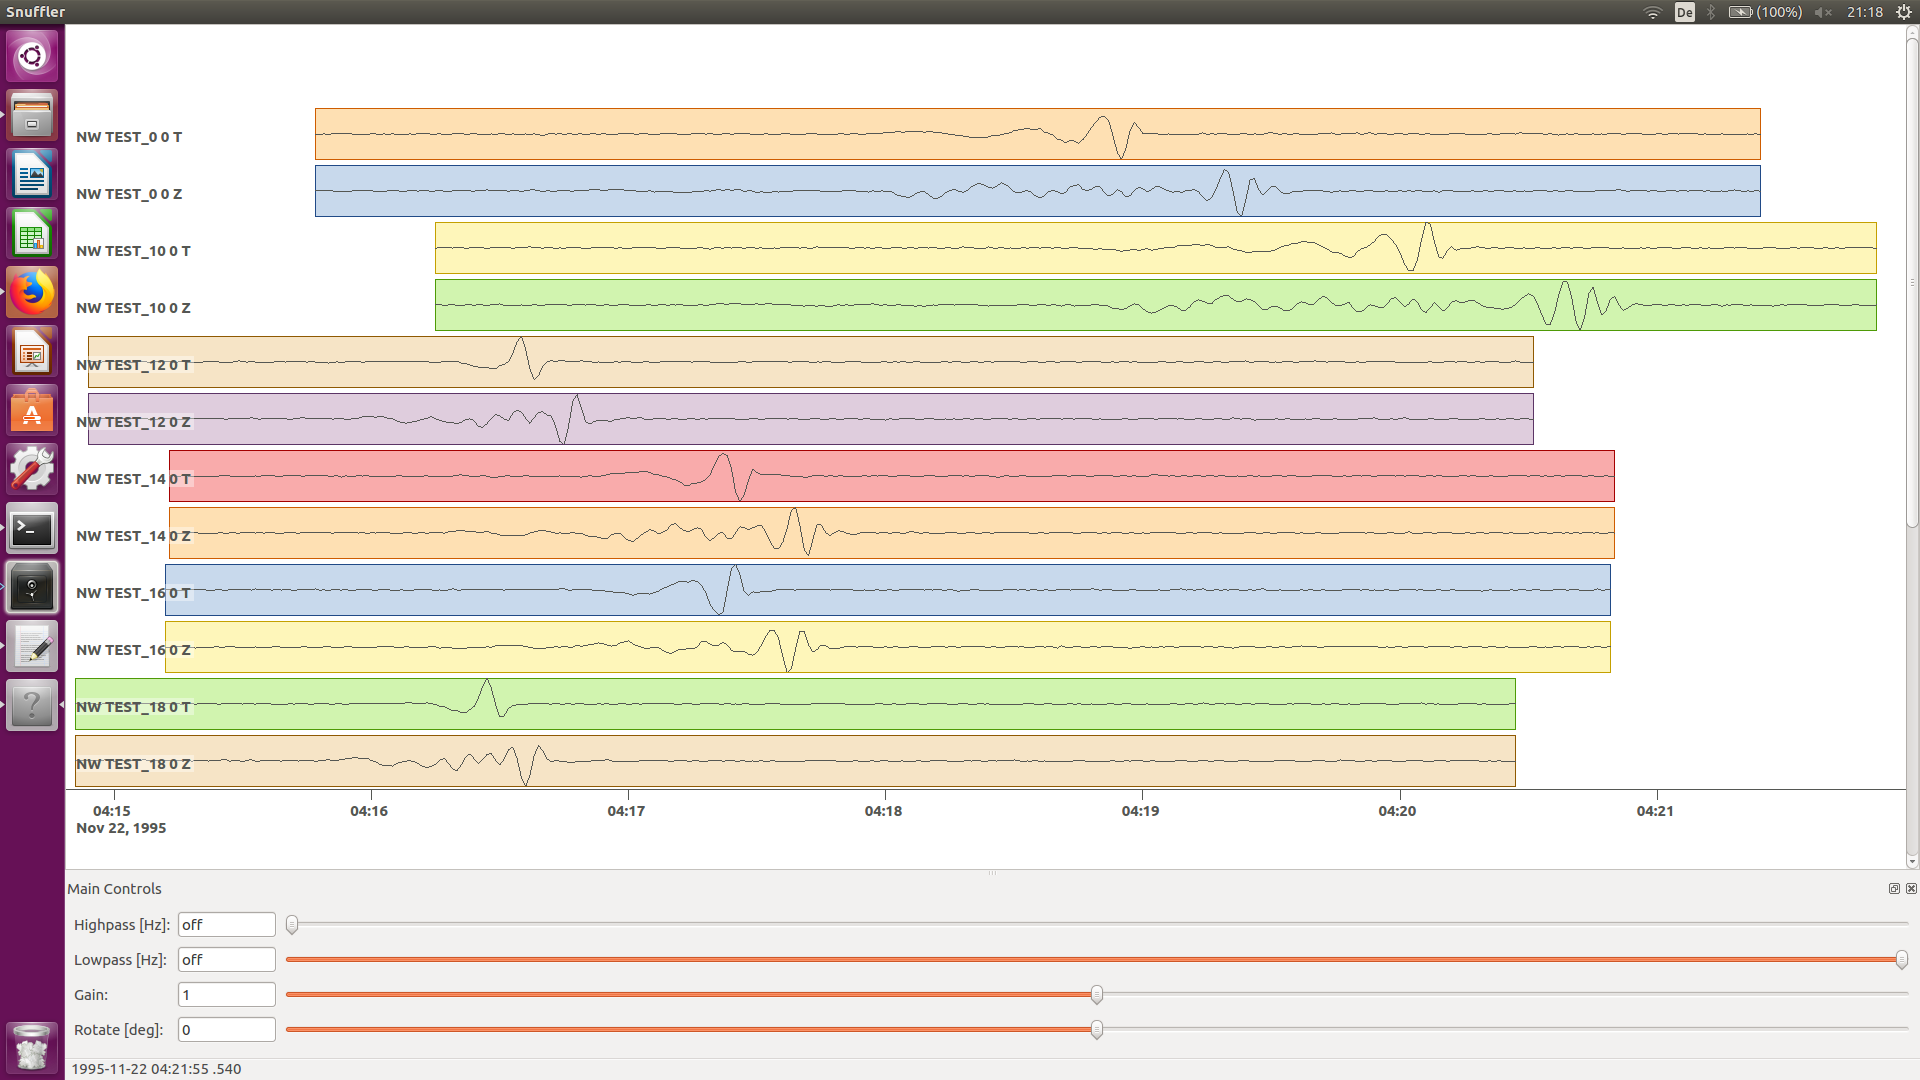
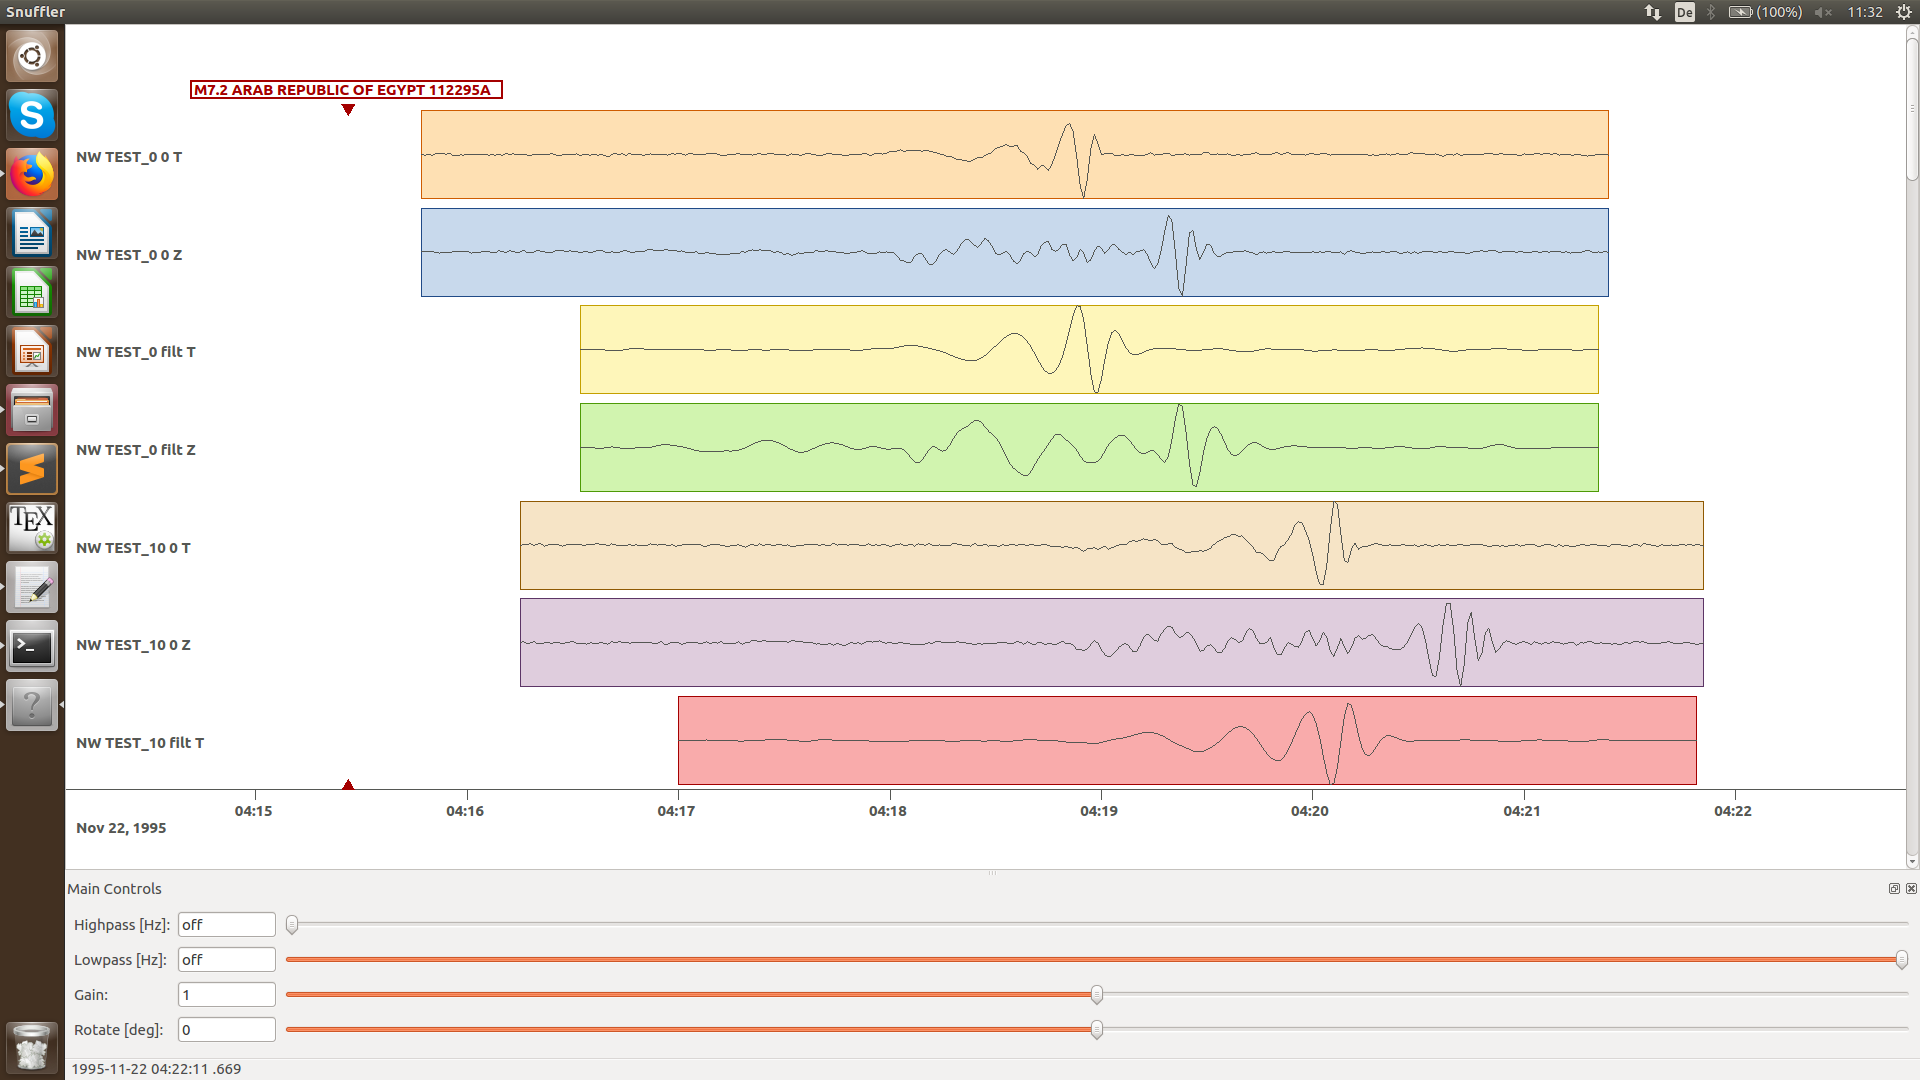
updates to MT tutorial, fixes in config

diff --git a/src/parallel.py b/src/parallel.py
@@ -256,7 +256,7 @@ def memshare(parameternames):
 
     Parameters
     ----------
-    paremeternames : list of str
+    parameternames : list of str
         off names to :class:`theano.tensor.sharedvar.TensorSharedVariable`
     """
     for paramname in parameternames:
@@ -284,16 +284,16 @@ def memshare_sparams(shared_params):
     shared_params : list
         of :class:`theano.tensor.sharedvar.TensorSharedVariable`
 
-    Returns:
-    --------
+    Returns
+    -------
 
     memshared_instances : list
         of :class:`multiprocessing.sharedctypes.RawArray`
         list of sharedctypes (shared memory arrays) that point
         to the memory used by the current process's Theano variable.
 
-    Notes:
-    ------
+    Notes
+    -----
     Modiefied from:
     https://github.com/JonathanRaiman/theano_lstm/blob/master/theano_lstm/shared_memory.py
 
@@ -327,16 +327,16 @@ def borrow_memory(shared_param, memshared_instance):
     Spawn different processes with the shared memory
     of your theano model's variables.
 
-    Parameters:
-    -----------
+    Parameters
+    ----------
     shared_param : :class:`theano.tensor.sharedvar.TensorSharedVariable`
         the Theano shared variable where
         shared memory should be used instead.
     memshared_instance : :class:`multiprocessing.RawArray`
         the memory shared across processes (e.g.from `memshare_sparams`)
 
-    Notes:
-    ------
+    Notes
+    -----
     Modiefied from:
     https://github.com/JonathanRaiman/theano_lstm/blob/master/theano_lstm/shared_memory.py
 
@@ -346,32 +346,35 @@ def borrow_memory(shared_param, memshared_instance):
     a list called "params". We loop through each theano shared variable and
     call `borrow_memory` on it to share memory across processes.
 
-        def spawn_model(path, wrapped_params):
-            # prevent recompilation and arbitrary locks
-            theano.config.reoptimize_unpickled_function = False
-            theano.gof.compilelock.set_lock_status(False)
+    Examples
+    --------
+    def spawn_model(path, wrapped_params):
+        # prevent recompilation and arbitrary locks
+        theano.config.reoptimize_unpickled_function = False
+        theano.gof.compilelock.set_lock_status(False)
 
-            # load your function from its pickled instance (from path)
-            myfunction = MyFunction.load(path)
+        # load your function from its pickled instance (from path)
+        myfunction = MyFunction.load(path)
 
-            # for each parameter in your function
-            # apply the borrow memory strategy to replace
-            # the internal parameter's memory with the
-            # across-process memory:
-            for param, memshared_instance in zip(
-                    myfunction.get_shared(), memshared_instances):
-                borrow_memory(param, memory)
+        # for each parameter in your function
+        # apply the borrow memory strategy to replace
+        # the internal parameter's memory with the
+        # across-process memory:
+        for param, memshared_instance in zip(
+                myfunction.get_shared(), memshared_instances):
+            borrow_memory(param, memory)
 
-            # acquire your dataset (either through some smart shared memory
-            # or by reloading it for each process)
-            dataset, dataset_labels = acquire_dataset()
+        # acquire your dataset (either through some smart shared memory
+        # or by reloading it for each process)
+        dataset, dataset_labels = acquire_dataset()
 
-            # then run your model forward in this process
-            epochs = 20
-            for epoch in range(epochs):
-                model.update_fun(dataset, dataset_labels)
+        # then run your model forward in this process
+        epochs = 20
+        for epoch in range(epochs):
+            model.update_fun(dataset, dataset_labels)
     See `borrow_all_memories` for list usage.
     """
+
     logger.debug('%s' % shared_param.name)
     param_value = num.frombuffer(memshared_instance)
     param_value.shape = shared_param.get_value(True, True).shape
@@ -383,8 +386,8 @@ def borrow_all_memories(shared_params, memshared_instances):
     Run theano_borrow_memory on a list of params and shared memory
     sharedctypes.
 
-    Parameters:
-    -----------
+    Parameters
+    ----------
     shared_params : list
         of :class:`theano.tensor.sharedvar.TensorSharedVariable`
         the Theano shared variable where
@@ -393,8 +396,8 @@ def borrow_all_memories(shared_params, memshared_instances):
         of :class:`multiprocessing.RawArray`
         the memory shared across processes (e.g.from `memshare_sparams`)
 
-    Notes:
-    ------
+    Notes
+    -----
     Same as `borrow_memory` but for lists of shared memories and
     theano variables. See `borrow_memory`
     """

diff --git a/src/heart.py b/src/heart.py
@@ -2077,7 +2077,7 @@ class WaveformMapping(object):
                 arrival_times[i] = get_phase_arrival_time(
                     engine=engine, source=source,
                     target=target, wavename=self.name)
-            
+
             self._prepared_data = taper_filter_traces(
                 self.datasets,
                 arrival_taper=self.config.arrival_taper,
@@ -2195,7 +2195,7 @@ class DataWaveformCollection(object):
         """
         Returns array of indexes to problem stations,
 
-        Paremeters
+        Parameters
         ----------
         targets : list
             containing :class:`DynamicTarget` Objects
@@ -2341,8 +2341,8 @@ def init_datahandler(seismic_config, seismic_data_path='./'):
     """
     Initialise datahandler.
 
-    Parameter
-    ---------
+    Parameters
+    ----------
     seismic_config : :class:`config.SeismicConfig`
     seismic_data_path : str
         absolute path to the directory of the seismic data
@@ -2382,8 +2382,8 @@ def init_wavemap(waveformfit_config, datahandler=None, event=None):
     relation to the seismic Phase of interest and allows individual
     specificiations.
 
-    Parameter
-    ---------
+    Parameters
+    ----------
     waveformfit_config : :class:`config.WaveformFitConfig`
     datahandler : :class:`DataWaveformCollection`
     event : :class:`pyrocko.model.Event`

diff --git a/src/config.py b/src/config.py
@@ -460,16 +460,16 @@ class GeodeticConfig(Object):
     blacklist = List.T(
         String.T(),
         optional=True,
-        default=['placeholder'],
-        help='Station name for station to be thrown out.')
+        default=[],
+        help='GPS station name or scene name to be thrown out.')
     types = List.T(
         String.T(),
         default=['SAR'],
         help='Types of geodetic data, i.e. SAR, GPS, ...')
     calc_data_cov = Bool.T(
         default=True,
-        help='Flag for calculating the data covariance matrix based on the'
-             ' pre P arrival data trace noise.')
+        help='Flag for calculating the data covariance matrix, '
+             'outsourced to "kite"')
     interpolation = StringChoice.T(
         choices=['nearest_neighbor', 'multilinear'],
         default='multilinear',

diff --git a/src/utility.py b/src/utility.py
@@ -147,7 +147,7 @@ class ListToArrayBijection(object):
 
         Returns
         -------
-        point
+        lpoint
         """
 
         a_list = copy.copy(self.list_arrays)
@@ -173,7 +173,7 @@ class ListToArrayBijection(object):
 
         Returns
         -------
-        point
+        :class:`pymc3.model.Point`
         """
         point = {}
 
@@ -280,9 +280,7 @@ def weed_input_rvs(input_rvs, mode, datatype):
     Parameters
     ----------
     input_rvs : dict
-        of :class:`pymc3.Distribution`
-        or set
-            of variable names
+        of :class:`pymc3.Distribution` or set of variable names
     mode : str
         'geometry', 'static, 'kinematic', 'interseismic' determining the
         discarded RVs

diff --git a/src/backend.py b/src/backend.py
@@ -686,7 +686,7 @@ class TransDTextChain(object):
 
         Returns
         -------
-        dictionary of point values
+        dict : of point values
         """
         ipoint = self._index.point(idx)
         return self._straces[ipoint['k']].point(ipoint['k_idx'])
@@ -777,8 +777,8 @@ def get_highest_sampled_stage(homedir, return_final=False):
     """
     Return stage number of stage that has been sampled before the final stage.
 
-    Paramaeters
-    -----------
+    Parameters
+    ----------
     homedir : str
         Directory to the sampled stage results
 

diff --git a/src/covariance.py b/src/covariance.py
@@ -398,7 +398,7 @@ def autocovariance(data):
 
 def toeplitz_covariance(data, window_size):
     """
-    Get Töplitz banded matrix for given data.
+    Get Toeplitz banded matrix for given data.
 
     Returns
     -------
@@ -413,7 +413,7 @@ def toeplitz_covariance(data, window_size):
 
 def non_toeplitz_covariance(data, window_size):
     """
-    Get scaled non- Töplitz covariance matrix, which may be able to account
+    Get scaled non- Toeplitz covariance matrix, which may be able to account
     for non-stationary data-errors.
 
     Parameters

diff --git a/src/ffi.py b/src/ffi.py
@@ -517,7 +517,7 @@ filename: %s''' % (
         starttimeidxs, starttimes : :class:`numpy.ndarray` or
             :class:`theano.tensor.Tensor`, int16
             (output depends on interpolation scheme,
-             if multilinear interpolation factors are returned as well)
+            if multilinear interpolation factors are returned as well)
         """
         if interpolation == 'nearest_neighbor':
             return backends[self._mode].round(

diff --git a/docs/conf.py b/docs/conf.py
@@ -39,7 +39,8 @@ extensions = [
    # 'sphinx.ext.mathjax',
     'sphinx.ext.viewcode',
     'sphinx.ext.doctest',
-    'numpydoc'
+    'sphinx.ext.napoleon'
+   # 'numpydoc'
 ]
 
 # Add any paths that contain templates here, relative to this directory.

diff --git a/docs/examples.rst b/docs/examples.rst
@@ -186,9 +186,8 @@ This looks reasonably well!
 
  .. image:: _static/fomosto_traces_snuffler.png
 
-
-Sample the solution space
-^^^^^^^^^^^^^^^^^^^^^^^^^
+Data windowing and optimization setup
+^^^^^^^^^^^^^^^^^^^^^^^^^^^^^^^^^^^^^
 Once we are confident that the GFs are reasonable we may continue to define the optimization specific setup variables.
 First of all we check again the WaveformFitConfig for the waves we want to optimize. 
 In this case we want to optimize the whole waveform from P until the end of the surface waves.
@@ -216,7 +215,9 @@ Finally, we fix the depth prior to 8km (upper and lower) as we only calculated G
         testvalue: [8.0]
 
 Of course, in a real case this would not be fixed.
-Also we may inspect the data::
+
+The specifications of the tapers, filters and channels that the user defined above determine which part of the data traces are used in the course of the optimization.
+We may inspect the raw data together with the processed data that is going to be used in the course of the optimization with ::
 
     beat check FullMT --what='traces'
 
@@ -225,11 +226,21 @@ A detailed tutorial about handeling the browser is given `here <https://pyrocko.
 
   .. image:: _static/FullMT_data.png
 
-For example you can also right click in the window and see a menu that pops up. There you can select sort the traces by distance or azimuth to get a better picture of the setup.
+To better sort the displayed traces and to inspect the processed data we may use snufflers display options.
+Please right click in the window and see a menu that pops up. There, please select: "Sort by Distance" to sort the traces by distance to get a better picture of the setup. To see, which traces actually belong to the same station and component, please open the menu again and select "Subsort by Network, Station, Channel (Grouped by Location)" and "Common Scale per Component". To distinguish better between the overlapping traces please select as well "Color Traces" and deselect "Show Boxes". 
+Your display should look something like this.
+
+  .. image:: _static/FullMT_windowed.png
+
+In red we see the raw data traces as stored under $project_directory/seismic_data.pkl; and in blue we see the processed data where the WaveformFitConfig parameters (see above) have been applied. The blue traces are going to be used in this form throughout the optimization. For this setup here we are good, but for future problems the user may now adjust the configuration and repeatedly check if the data windowing is satisfying. For example, the user may widen the arrival_taper times to make sure that a respective wave train is completely included in case it is cut at the taper boundary. Or in case of noisy or bad quality data a station may be completely excluded by putting its name in the "blacklist" parameter.
+
 Now that we checked the optimization setup we are good to go.
 
-Firstly, we fix the source parameters to some random value and only optimize for the hyperparameters (HPs).
-How many different random source parameters are choosen and the sampling repeated is determined by the hyper_sampler_config parameters 'n_stages' (default:5) ::
+Sample the solution space
+^^^^^^^^^^^^^^^^^^^^^^^^^
+
+Firstly, we fix the source parameters to some random value and only optimize for the noise scaling or hyperparameters (HPs).
+How many different random source parameters are choosen and the sampling repeated is determined by the hyper_sampler_config parameters 'n_chains' (default:20). In case there are several CPUs available the 'n_jobs' parameter determines how many processes (Markov Chains) are sampled in paralell. You may want to increase that now! To start the sampling please run ::
 
     beat sample FullMT --hypers
 
@@ -240,15 +251,15 @@ the HPs parameter bounds show something like::
       h_any_P_T: !beat.heart.Parameter
         name: h_any_P_T
         form: Uniform
-        lower: [-4.0]
-        upper: [5.0]
-        testvalue: [0.5]
+        lower: [-3.0]
+        upper: [3.0]
+        testvalue: [0.0]
       h_any_P_Z: !beat.heart.Parameter
         name: h_any_P_Z
         form: Uniform
-        lower: [-4.0]
-        upper: [5.0]
-        testvalue: [0.5]
+        lower: [-3.0]
+        upper: [2.0]
+        testvalue: [-0.5]
 
 At this point the bounds could be relaxed again as well by manually editing the configuration file, or the step could be entirely skipped.
 Now that we have an initial guess on the hyperparameters we can run the optimization using the default sampling algorithm, a Sequential Monte Carlo sampler.

diff --git a/docs/getting_started.rst b/docs/getting_started.rst
@@ -66,8 +66,8 @@ For example to optimize for a Full Moment Tensor for the Landers EQ by using sei
 
 This will create project directory called LandersEQ in the current directory.
 Within the directoy you will see that there have been two files created:
-  - BEAT_log.txt 
-  - geometry_config.yaml 
+ - BEAT_log.txt 
+ - geometry_config.yaml 
 
 The first file is a logging file where all the executed comments and outputs are written to. In case something goes wrong this log file helps to find the error.
 For now it contains::

diff --git a/docs/api.rst b/docs/api.rst
@@ -44,14 +44,14 @@ The :mod:`sampler` Module
 
 
 The :mod:`ffi` Module
-------------------------
+---------------------
 
 .. automodule:: ffi
    :members:
 
 
 The :mod:`parallel` Module
-------------------------
+--------------------------
 
 .. automodule:: parallel
    :members:
